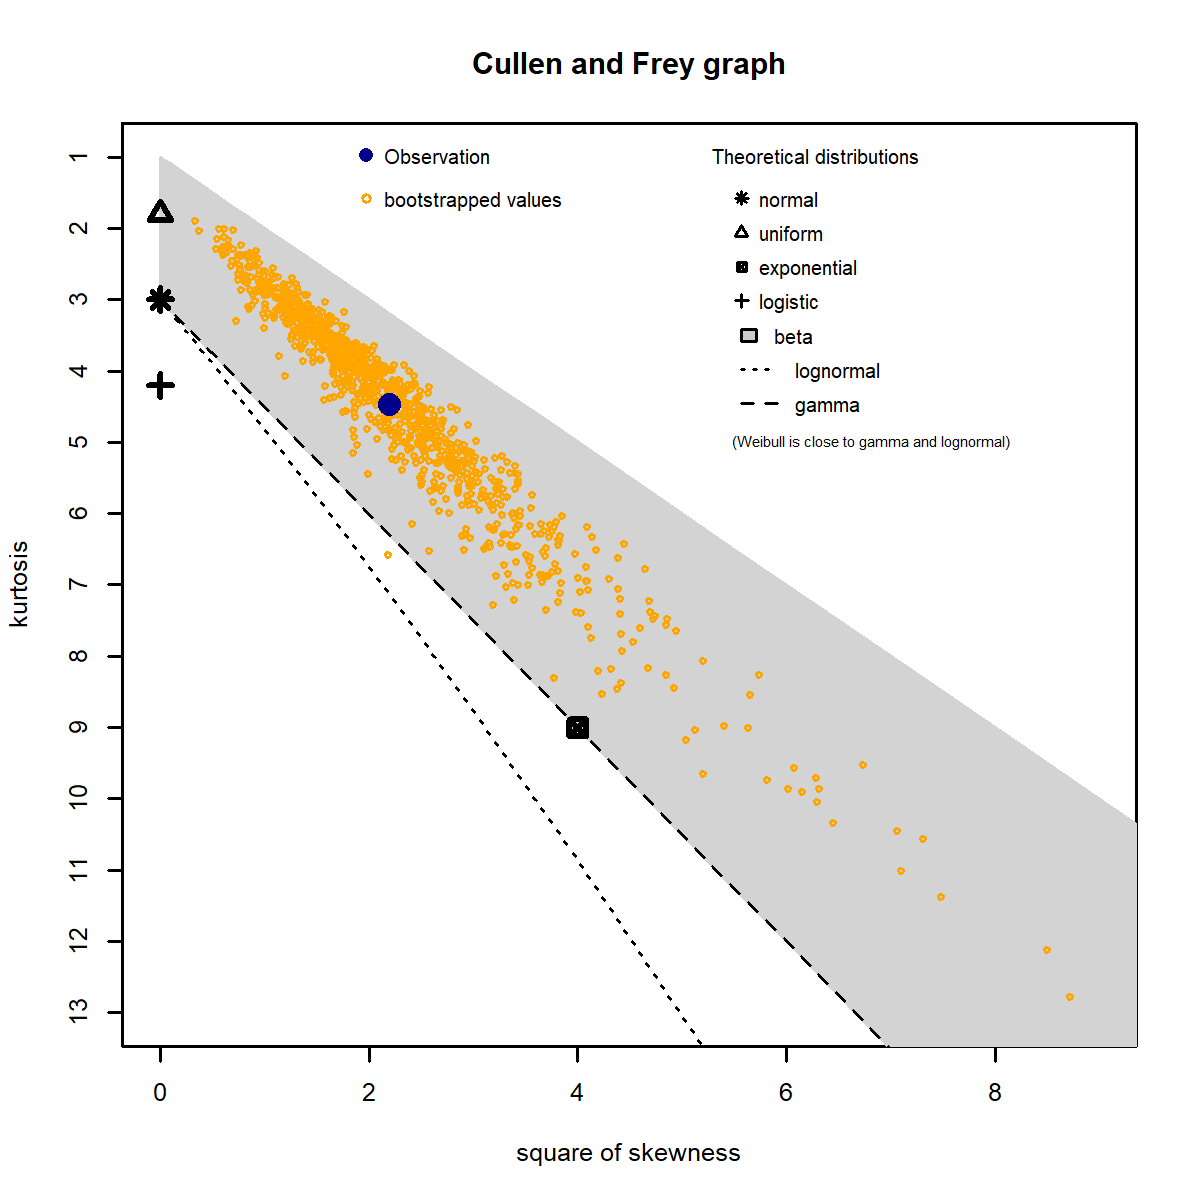
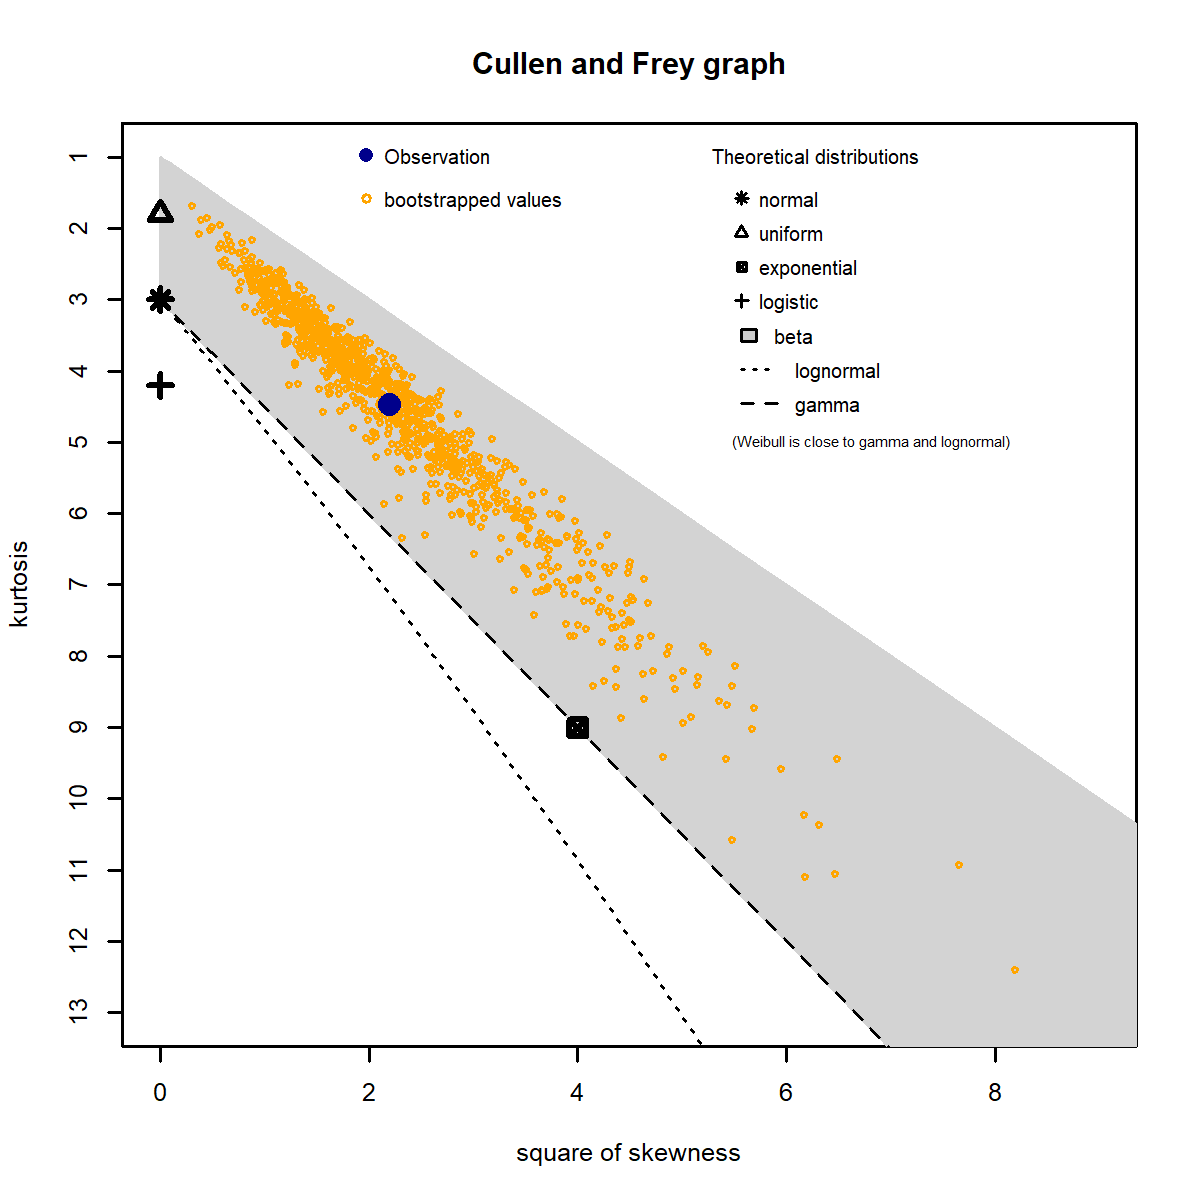
updated

Changed region(s): [[0.1542, 0.1542, 0.5858, 0.6167]]

diff --git a/Data Driven R0-Rt Estimation/Lag-Adjusted Rt (Import).py b/Data Driven R0-Rt Estimation/Lag-Adjusted Rt (Import).py
@@ -31,7 +31,7 @@ for n in range(1000):
     print("Iteration: ",n+1,end='\r')
     dataset = np.copy(real_data)
 
-    G = gamma(3.2683698+0.6162469*np.random.normal(),0.6110944+0.1958257*np.random.normal())
+    G = gamma(3.325+0.616*np.random.normal(),0.979+0.195*np.random.normal())
     for i in range(len(dataset)):
         send_back = np.clip(np.round(G.rvs(dataset[i])),0,10)
         send_back = send_back[i-send_back>=0]
@@ -50,7 +50,7 @@ for n in range(1000):
     print("Iteration: ",n+1,end='\r')
     dataset = np.copy(real_data)
 
-    G = gamma(3.2683698+0.6162469*np.random.normal(),0.6110944+0.1958257*np.random.normal())
+    G = gamma(3.325+0.616*np.random.normal(),0.979+0.195*np.random.normal())
     for i in range(len(dataset)):
         send_back = np.clip(np.round(G.rvs(dataset[i])),0,10)
         send_back = send_back[i-send_back>=0]

diff --git a/Data Driven R0-Rt Estimation/Lag-Adjusted Rt (States).py b/Data Driven R0-Rt Estimation/Lag-Adjusted Rt (States).py
@@ -39,7 +39,7 @@ for state in state_id.keys():
         dats = []
         for n in range(boots):
             print("Iteration: ",n+1,end='\r')
-            G = gamma(3.2683698+0.6162469*np.random.normal(),0.6110944+0.1958257*np.random.normal())
+            G = gamma(3.325+0.616*np.random.normal(),0.979+0.195*np.random.normal())
             dataset = np.copy(real_data)
             for i in range(len(dataset)):
                 send_back = np.clip(np.round(G.rvs(int(dataset[i]))),0,10)

diff --git a/Data Driven R0-Rt Estimation/Lag-Adjusted Rt.py b/Data Driven R0-Rt Estimation/Lag-Adjusted Rt.py
@@ -34,7 +34,7 @@ rt = []
 for n in range(1000):
     print("Iteration: ",n+1,end='\r')
     dataset = np.copy(real_data)
-    G = gamma(3.2683698+0.6162469*np.random.normal(),0.6110944+0.1958257*np.random.normal())
+    G = gamma(3.325+0.616*np.random.normal(),0.979+0.195*np.random.normal())
     for i in range(len(dataset)):
         send_back = np.clip(np.round(G.rvs(dataset[i])),0,10)
         send_back = send_back[i-send_back>=0]
